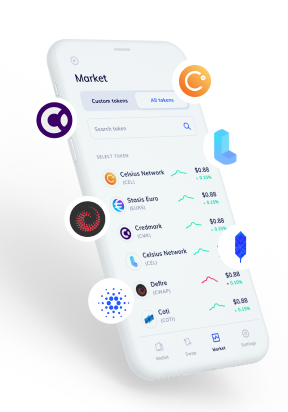
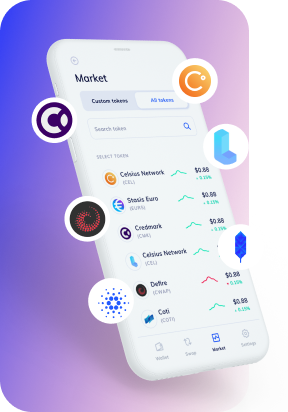
finishing rwd

diff --git a/src/components/slider/Slider.tsx b/src/components/slider/Slider.tsx
@@ -6,9 +6,12 @@ import { Text } from 'components/_common/Text';
 
 import { colors } from 'theme';
 
+import { isMobile } from 'components/rwd/detectMobile';
+import { MobileSwiper } from 'components/rwd/MobileSwiper';
+import appPhone from 'assets/images/appPhone.png';
+
 import sliderData from './sliderData.json';
 import { Slide } from './Slide';
-import { PhoneRadiantBackground } from './PhoneRadiantBackground';
 import { SliderText } from './SliderText';
 import { SliderArrows } from './SliderArrows';
 
@@ -23,22 +26,26 @@ export const Slider = () => {
   const [currentSlide, setCurrentSlide] = useState({ data: sliderData[0], index: 0 });
   return (
     <StyledGenericWrapper marginBottom={150} marginTop={110}>
-      <div>
-        <Text size={5} label={text.title.titleOne} toUpperCase fontWeight={700} />
-        <Text size={5} label={text.title.titleTwo} color={colors.textGradient} toUpperCase fontWeight={700} linearGradient />
-      </div>
+      {isMobile ? <MobileSwiper /> : (
+        <>
+          <div>
+            <Text size={5} label={text.title.titleOne} toUpperCase fontWeight={700} />
+            <Text size={5} label={text.title.titleTwo} color={colors.textGradient} toUpperCase fontWeight={700} linearGradient />
+          </div>
 
-      <SliderWrapper>
-        <SliderMenuWrapper>
-          {sliderData.map((slide, index) => <Slide key={slide.id} slideData={slide} currentSlide={currentSlide} setCurrentSlide={setCurrentSlide} index={index} />)}
-        </SliderMenuWrapper>
+          <SliderWrapper>
+            <SliderMenuWrapper>
+              {sliderData.map((slide, index) => <Slide key={slide.id} slideData={slide} currentSlide={currentSlide} setCurrentSlide={setCurrentSlide} index={index} />)}
+            </SliderMenuWrapper>
 
-        <PhoneRadiantBackground />
+            <img src={appPhone} alt="phone with applications" />
 
-        <SliderText currentSlideData={currentSlide.data} />
+            <SliderText currentSlideData={currentSlide.data} />
 
-        <SliderArrows sliderData={sliderData} currentSlide={currentSlide} setCurrentSlide={setCurrentSlide} />
-      </SliderWrapper>
+            <SliderArrows sliderData={sliderData} currentSlide={currentSlide} setCurrentSlide={setCurrentSlide} />
+          </SliderWrapper>
+        </>
+      )}
     </StyledGenericWrapper>
   );
 };

diff --git a/src/components/rwd/HeaderMenuMobile.tsx b/src/components/rwd/HeaderMenuMobile.tsx
@@ -2,8 +2,10 @@ import React from 'react';
 import styled from 'styled-components';
 import Modal from '@mui/material/Modal';
 
-import { MenuButton } from 'components/MenuButton';
 import { menuItems } from 'data/menuItems';
+import { colors } from 'theme';
+import { Text } from 'components/_common/Text';
+import filledSquares from 'assets/shapes/squareWithFill.png';
 
 interface Props {
   modalToggle: boolean
@@ -15,12 +17,18 @@ const modalStyled = {
 
 export const HeaderMenuMobile = (props: Props) => {
   const { modalToggle } = props;
-
+  const { joinCommunity: { label, link } } = menuItems;
   return (
-    <Modal style={modalStyled} open={modalToggle}>
-      <MenuWrapper>
-        {menuItems.iterableItems.map(({ label, link }) => <MenuButton key={label} label={label} link={link} />)}
-        <MenuButton label={menuItems.joinCommunity.label} link={menuItems.joinCommunity.link} border />
+    <Modal style={modalStyled} hideBackdrop open={modalToggle}>
+      <MenuWrapper className="gap-5">
+        {menuItems.iterableItems.map(({ label, link }) => (
+          <a key={label} href={link} className="no-underline">
+            <Text key={label} size={3} label={label} toUpperCase />
+          </a>
+        ))}
+        <a href={link} className="no-underline">
+          <Text label={label} size={3} color={colors.textGradient} linearGradient toUpperCase />
+        </a>
       </MenuWrapper>
     </Modal>
   );
@@ -29,4 +37,18 @@ export const HeaderMenuMobile = (props: Props) => {
 const MenuWrapper = styled.div`
   display: flex;
   flex-direction: column;
+  background-color: ${colors.mainBlack};
+  height: 100%;
+  padding: 0 10px;
+  &:before {
+      content: "";
+      position: absolute;
+      overflow: visible;
+      width: 500px;
+      height: 500px;
+      bottom: -350px;
+      left: -50px;
+      background: url(${filledSquares}) 0 0 no-repeat;
+      transform: rotate(60deg) scale(.8);
+    }
 `;

diff --git a/src/components/Footer.tsx b/src/components/Footer.tsx
@@ -12,6 +12,7 @@ import { colors } from 'theme';
 
 import { MenuButton } from './MenuButton';
 import { Text } from './_common/Text';
+import { isMobile } from './rwd/detectMobile';
 
 const socials = [{
   src: twitter,
@@ -49,13 +50,16 @@ export const Footer = () => {
         <IterableButtonsWrapper>
           {iterableItems.map(({ label, link }) => (
             <div key={label} className="mr-5 flex align-items-center">
-              <StyledLink href={link}>
+              <StyledLink className="text-center" href={link}>
                 <Text size={1} label={label} fontWeight={700} toUpperCase />
               </StyledLink>
             </div>
           ))}
         </IterableButtonsWrapper>
-        <MenuButton label={joinCommunity.label} link={joinCommunity.link} backgroundColor={colors.textGradient} />
+        <div className={`flex justify-content-center ${isMobile ? 'mt-5 mb-5' : ''}`}>
+
+          <MenuButton label={joinCommunity.label} link={joinCommunity.link} backgroundColor={colors.textGradient} />
+        </div>
       </MenuButtonsWrapper>
       <SocialsWrapper>
         {socials.map(({ name, link, src }) => (
@@ -80,6 +84,10 @@ const FooterWrapper = styled.div`
     flex-direction: column;
     max-width: 80%;
     margin: 0 auto;
+    @media (max-width: 840px) {
+      max-width: 95%;
+      padding: 0 15px;
+    }
 `;
 const LogoWrapper = styled.div`
     margin-bottom: 24px;
@@ -88,6 +96,9 @@ const MenuButtonsWrapper = styled.div`
     display: flex;
     justify-content: space-between;
     margin-bottom: 34px;
+    @media (max-width: 840px) {
+      flex-direction: column;
+    }
 `;
 const IterableButtonsWrapper = styled.div`
     display: flex;

diff --git a/src/components/rwd/MobileSwiper.tsx b/src/components/rwd/MobileSwiper.tsx
@@ -1,0 +1,45 @@
+// eslint-disable-next-line @typescript-eslint/ban-ts-comment
+// @ts-nocheck
+
+import React from 'react';
+
+import styled from 'styled-components';
+import sliderData from 'components/slider/sliderData.json';
+
+import 'swiper/css';
+import 'swiper/css/free-mode';
+import 'swiper/css/navigation';
+import 'swiper/css/thumbs';
+import './styles.css';
+
+import { SwiperItem } from './SwiperItem';
+
+export const MobileSwiper = () => (
+  <StyledWrapper>
+    <swiper-container class="my-thumbs" spaceBetween="10" slides-per-view="1.5">
+      {sliderData.map(({ title }) => (
+        <ThumbTitle class="thumb-slide" slides thumbsContainerClass key={title}>
+          <div className="thumb-wrapper">
+            <span>{title}</span>
+          </div>
+        </ThumbTitle>
+      ))}
+
+    </swiper-container>
+    <swiper-container
+      thumbs-swiper=".my-thumbs"
+    >
+      {sliderData.map(({ title, description }) => (
+        <SwiperItem title={title} description={description} />
+      ))}
+    </swiper-container>
+  </StyledWrapper>
+);
+
+const StyledWrapper = styled.div`
+  position: relative;
+  height: 100vh;
+  width: 100vw;
+`;
+const ThumbTitle = styled('swiper-slide')`
+`;

diff --git a/src/components/rwd/SwiperItem.tsx b/src/components/rwd/SwiperItem.tsx
@@ -1,0 +1,42 @@
+// eslint-disable-next-line @typescript-eslint/ban-ts-comment
+// @ts-nocheck
+
+import React from 'react';
+import styled from 'styled-components';
+
+import appPhone from 'assets/images/appPhone.png';
+import { Text } from 'components/_common/Text';
+
+interface Props {
+  title: string;
+  description: string;
+}
+
+export const SwiperItem = (props: Props) => {
+  const { title, description } = props;
+
+  return (
+    <swiper-slide>
+      <StyledWrapper>
+        <ImageWrapper>
+          <img height="300" src={appPhone} alt="phone with applications" />
+        </ImageWrapper>
+        <div className="flex flex-column gap-3">
+          <Text label={title} size={2} />
+          <Text label={description} size={1} fontWeight={400} />
+        </div>
+      </StyledWrapper>
+    </swiper-slide>
+  );
+};
+const StyledWrapper = styled.div`
+    display: flex;
+    flex-direction: column;
+    padding: 40px 20px;
+`;
+const ImageWrapper = styled.div`
+    width: 100%;
+    display: flex;
+    justify-content: center;
+    margin-bottom: 40px;
+`;

diff --git a/src/components/Description.tsx b/src/components/Description.tsx
@@ -34,18 +34,17 @@ position: relative;
       content: "";
       position: absolute;
       overflow: visible;
-      width: 300%;
-      height: 400%;
-      top: -150%;
-      left: 0;
+      width: 800px;
+      height: 800px;
+      top: 20%;
+      left: 50%;
       z-index: -1;
       background: url(${emptySquares}) 0 0 no-repeat;
-      transform: translate(-50%, -50%) rotate(-135deg) scale(.8) ;
+      transform: translate(-50%, -50%) rotate(-135deg) scale(.8);
       @media (max-width: 840px) {
-        left: 50%;
-        top: 40%;
+      transform: translate(-50%, -50%) rotate(-135deg) scale(.5);
       }
-    }
+  }
 `;
 const StyledTextWrapper = styled.div`
   display: flex;

diff --git a/src/components/SecurityProtocol.tsx b/src/components/SecurityProtocol.tsx
@@ -36,18 +36,13 @@ justify-content: center;
       content: "";
       position: absolute;
       overflow: visible;
-      width: 300%;
-      height: 500%;
-      top: -180%;
-      left: 10%;
+      width: 900px;
+      height: 900px;
+      top: 20%;
+      left: 50%;
       z-index: -1;
       background: url(${emptySquares}) 0 0 no-repeat;
       transform: translate(-50%, -50%) rotate(-135deg) scale(.6);
-      @media (max-width: 840px) {
-      transform: translate(-50%, -50%) rotate(-135deg) scale(.4);
-      left: 80%;
-      top: 0;
-      }
     }
 `;
 const StyledLink = styled.a`

diff --git a/src/components/rwd/styles.css b/src/components/rwd/styles.css
@@ -1,0 +1,25 @@
+.my-thumbs {
+    padding: 0 15px;
+}
+  
+.thumb-slide {
+    height: 50px;
+    font-size: 14px;
+    font-weight: bold;
+    border-bottom: 1px solid grey;
+  }
+  
+.swiper-slide-thumb-active {
+    border: none;
+    background: linear-gradient(269.98deg, #3742F5 19.49%, #D6357F 103.52%);
+    padding-bottom: 1px;
+  }
+.thumb-wrapper {
+    height: 100%;
+    width: 100%;
+    display: flex;
+    justify-content: center;
+    align-items: center;
+    background: #141414;
+    text-align: center;
+}

diff --git a/src/components/MenuButton.tsx b/src/components/MenuButton.tsx
@@ -33,10 +33,11 @@ const StyledMenuButton = styled.button<StyledProps>`
     background: ${({ backgroundColor }) => (backgroundColor || 'unset')};
     border: ${({ border, color }) => (border ? `1px solid ${color || colors.white}` : 'none')};
     border-radius: 25px;
+    text-align: center;
 `;
 const StyledLink = styled.a`
     display: inline-block;
-    font-size: 16px;
+    font-size: 1rem;
     padding: 5px 34px;
     box-sizing: border-box;
     color: ${({ color }) => (color || colors.white)};

diff --git a/src/components/rwd/MobileHeader.tsx b/src/components/rwd/MobileHeader.tsx
@@ -11,7 +11,7 @@ export const MobileHeader = () => {
 
   return (
     <div>
-      <MobileMenuButton src={modalToggle ? menuMobileClose : menuMobileOpen} onClick={() => setModalToggle(true)} alt="open menu" />
+      <MobileMenuButton src={modalToggle ? menuMobileClose : menuMobileOpen} onClick={() => setModalToggle(prevState => !prevState)} alt="open menu" />
       <HeaderMenuMobile modalToggle={modalToggle} />
     </div>
   );

diff --git a/src/components/SignUpBelow.tsx b/src/components/SignUpBelow.tsx
@@ -34,10 +34,10 @@ justify-content: center;
       content: "";
       position: absolute;
       overflow: visible;
-      width: 150%;
-      height: 400%;
-      top: 5%;
-      left: 45%;
+      width: 800px;
+      height: 800px;
+      top: 10%;
+      left: 50%;
       z-index: -1;
       background: url(${emptySquares}) 0 0 no-repeat;
       transform: translate(-50%, -50%) rotate(-135deg) scale(.5);

diff --git a/public/index.html b/public/index.html
@@ -10,10 +10,12 @@
       content="Web site created using create-react-app"
     />
     <link rel="stylesheet" href="https://unpkg.com/primeflex@^3/primeflex.css">
+    
     <title>Fida</title>
   </head>
   <body>
     <div id="root"></div>
+    <script src="https://cdn.jsdelivr.net/npm/swiper@9/swiper-element-bundle.min.js"></script>
 </script>
   </body>
 </html>
